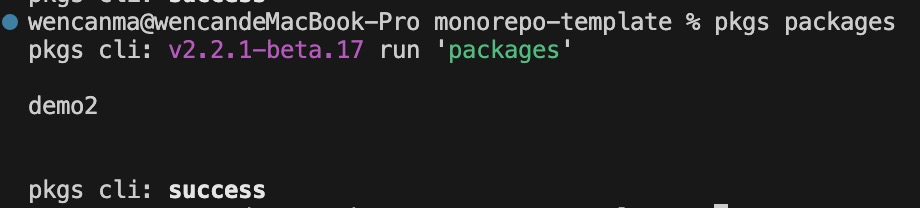
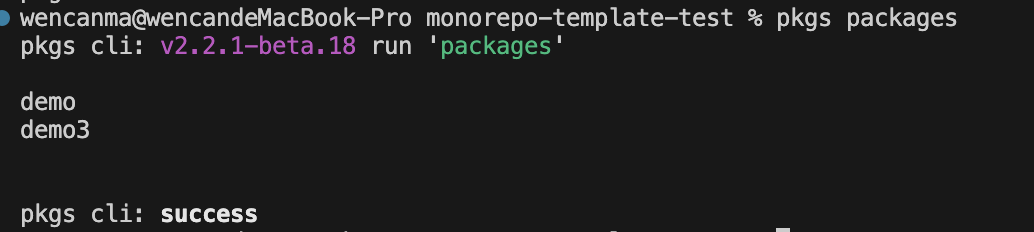
docs(plugin): 补充插件文档示例

diff --git a/docs/plugin.md b/docs/plugin.md
@@ -70,7 +70,12 @@ export default {
   ],
 }
 ```
-运行命令
+
+### 项目背景
+[项目示例](https://gitee.com/turn_three_degrees/monorepo-template-test)有3个包，分别是demo、demo2和demo3，demo3依赖了demo，我们修改demo3包在工作区上，通过`pkgs packages`就可以依次打印出demo和demo3
+![](./assets//images/workDiff.png)
+
+### 运行命令
 ```bash
 pkgs -h
 ```
